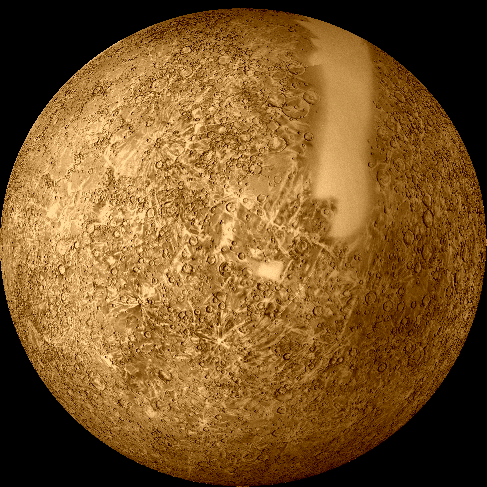
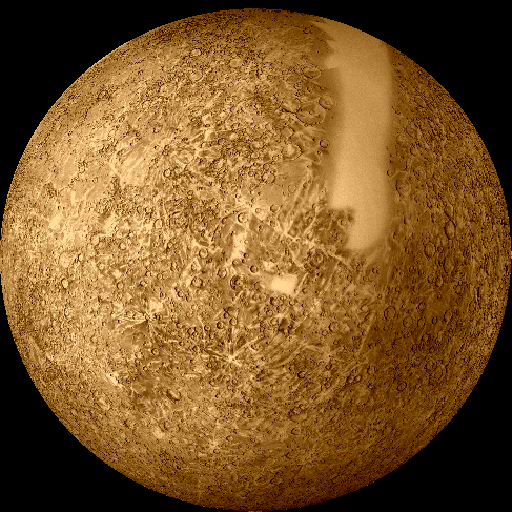
added textures for every planet, load them properly

diff --git a/proj4.c b/proj4.c
@@ -164,8 +164,8 @@ context_t *contextNew(unsigned int geomNum, unsigned int imageNum) {
   SPOT_V3_SET(ctx->lightColor, 1.0f, 1.0f, 1.0f);
   ctx->running = 1;
   ctx->program = 0;
-  ctx->winSizeX = 900;
-  ctx->winSizeY = 700;
+  ctx->winSizeX = 1500;
+  ctx->winSizeY = 900;
   ctx->tbarSizeX = 200;
   ctx->tbarSizeY = 300;
   ctx->tbarMargin = 20;
@@ -210,9 +210,9 @@ context_t *contextNew(unsigned int geomNum, unsigned int imageNum) {
     translateGeomU(ctx->geom[4],  0.338f); // Mars 
     translateGeomU(ctx->geom[5],  2.710f); // Jupiter 
     translateGeomU(ctx->geom[6],  5.507f); // Saturn 
-    translateGeomU(ctx->geom[7],  11.73f); // Uranus 
-    translateGeomU(ctx->geom[8],  18.75f); // Neptune 
-    translateGeomU(ctx->geom[9],  24.84f); // Pluto 
+    translateGeomU(ctx->geom[7],  9.73f); // Uranus 
+    translateGeomU(ctx->geom[8],  11.75f); // Neptune 
+    translateGeomU(ctx->geom[9],  15.84f); // Pluto 
 
     // scale the objects so that they resemble true dimensions
     scaleGeom(ctx->geom[0], 2.000f);  // Sun
@@ -229,30 +229,22 @@ context_t *contextNew(unsigned int geomNum, unsigned int imageNum) {
     // set orientation
     for (gi=0; gi < geomNum; gi ++) {
       SPOT_V4_SET(ctx->geom[gi]->quaternion, 1.0f, 0.0f, 0.0f, 0.0f);
+      ctx->geom[gi]->Kd = 0.4;
+      ctx->geom[gi]->Ks = 0.3;
+      ctx->geom[gi]->Ka = 0.3;
     }
 
     // load images
-    spotImageLoadPNG(ctx->image[0], "textimg/uchic-rgb.png");     // texture
-    spotImageLoadPNG(ctx->image[1], "textimg/uchic-norm08.png");  // bump map
-    //spotImageLoadPNG(ctx->image[2], "textimg/uchic-hght08.png");
-    spotImageLoadPNG(ctx->image[2], "textimg/uchic-norm08.png");
-    spotImageLoadPNG(ctx->image[3], "textimg/check-rgb.png");
-
-		//spotImageLoadPNG(ctx->image[4], "textimg/cube-sample.png");
-		spotImageLoadPNG(ctx->image[4], "textimg/cube-sample.png");
-		spotImageLoadPNG(ctx->image[5], "textimg/cube-cool.png");
-		spotImageLoadPNG(ctx->image[6], "textimg/cube-place.png");
-
-    // set lighting constants
-    ctx->geom[0]->Kd = 0.4;
-    ctx->geom[0]->Ks = 0.3;
-    ctx->geom[0]->Ka = 0.3;
-    ctx->geom[1]->Kd = 0.4;
-    ctx->geom[1]->Ks = 0.3;
-    ctx->geom[1]->Ka = 0.3;
-    ctx->geom[2]->Kd = 0.4;
-    ctx->geom[2]->Ks = 0.3;
-    ctx->geom[2]->Ka = 0.3;
+    spotImageLoadPNG(ctx->image[0], "textimg/sun.png");     // texture
+    spotImageLoadPNG(ctx->image[1], "textimg/mercury.png");  // bump map
+    spotImageLoadPNG(ctx->image[2], "textimg/venus.png");
+    spotImageLoadPNG(ctx->image[3], "textimg/earth.png");
+    spotImageLoadPNG(ctx->image[4], "textimg/mars.png");
+    spotImageLoadPNG(ctx->image[5], "textimg/jupiter.png");
+    spotImageLoadPNG(ctx->image[6], "textimg/saturn.png");
+    spotImageLoadPNG(ctx->image[7], "textimg/uranus.png");
+    spotImageLoadPNG(ctx->image[8], "textimg/neptune.png");
+    spotImageLoadPNG(ctx->image[9], "textimg/pluto.png");
 
   ctx->ticDraw = -1;
   ctx->ticMouse = -1;
@@ -261,7 +253,7 @@ context_t *contextNew(unsigned int geomNum, unsigned int imageNum) {
   ctx->thetaPerSecN = 0;
 	ctx->onlyN = 0;
 
-	ctx->cubeMapId = 2;
+//	ctx->cubeMapId = 2;
 
   ctx->angleU = 0;
   ctx->angleV = 0;
@@ -301,7 +293,7 @@ void setUnilocs() {
       SET_UNILOC(samplerA);
       SET_UNILOC(samplerB);
       SET_UNILOC(samplerC);
-      SET_UNILOC(cubeMap);
+//      SET_UNILOC(cubeMap);
       SET_UNILOC(samplerD);
       SET_UNILOC(Zu);
       SET_UNILOC(Zv);
@@ -399,14 +391,17 @@ int contextGLInit(context_t *ctx) {
 				printf("ii: %d\n", ii);
       if (ctx->image[ii]->data.v) {
         // Only bother with GL init when image data has been set
-        if (ii==4 || ii==5 || ii==6) { // 5 is our cubemap
+/*
+        if (ii=10) { //ii==4 || ii==5 || ii==6) { // 5 is our cubemap
           if (spotImageCubeMapGLInit(ctx->image[ii])) {
             spotErrorAdd("%s: trouble with image[%u]", me, ii);
             return 1;
           } else {
             printf("cubeMap: %d\n", ii);
           }
-        } else if (spotImageGLInit(ctx->image[ii])) {
+        } else 
+*/
+        if (spotImageGLInit(ctx->image[ii])) {
           spotErrorAdd("%s: trouble with image[%u]", me, ii);
           return 1;
         }
@@ -426,7 +421,7 @@ int contextGLInit(context_t *ctx) {
   gctx->minFilter = GL_NEAREST;
   gctx->magFilter = GL_NEAREST;
   gctx->perVertexTexturingMode=0; 
-//  perVertexTexturing();
+  perVertexTexturing();
 
   // NOTE: model initializations
   SPOT_M4_IDENTITY(gctx->model.xyzw);
@@ -446,7 +441,7 @@ int contextGLInit(context_t *ctx) {
   gctx->camera.up[2] = 0;
   gctx->camera.from[0] = 0;
   gctx->camera.from[1] = -2.0f;
-  gctx->camera.from[2] = -2.0f;
+  gctx->camera.from[2] = 25.0f;
   gctx->camera.at[0] = 0;
   gctx->camera.at[1] = 0;
   gctx->camera.at[2] = 0;
@@ -589,8 +584,8 @@ int contextDraw(context_t *ctx) {
      informative */
 
   glActiveTexture(GL_TEXTURE0);
-  glBindTexture(GL_TEXTURE_CUBE_MAP, ctx->image[4+ctx->cubeMapId]->textureId);
-  glUniform1i(ctx->uniloc.cubeMap, 0);
+//  glBindTexture(GL_TEXTURE_CUBE_MAP, ctx->image[4+ctx->cubeMapId]->textureId);
+//  glUniform1i(ctx->uniloc.cubeMap, 0);
 
   // NOTE: recall that image[0] is "uchic-rgb.png"
   glActiveTexture(GL_TEXTURE1);
@@ -726,7 +721,7 @@ static void TW_CALL getBumpMappingCallback(void *value, void *clientData) {
   *((int *) value) = gctx->bumpMappingMode;
 }
 
-static void TW_CALL setCubeMapCallback(const void *value, void *clientData) {
+/*static void TW_CALL setCubeMapCallback(const void *value, void *clientData) {
 	enum CubeMaps cubemap = *((const enum CubeMaps *) value);
 	switch (cubemap) {
 		case CubeSample:
@@ -743,7 +738,7 @@ static void TW_CALL setCubeMapCallback(const void *value, void *clientData) {
 
 static void TW_CALL getCubeMapCallback(void *value, void *clientData) {
   *((int *) value) = gctx->cubeMapId;
-}
+} */
 static void TW_CALL setShaderCallback(const void *value, void *clientData) {
 	enum Shaders shader = *((const enum Shaders *) value);
 	switch (shader) {
@@ -844,17 +839,17 @@ int updateTweakBarVars(int scene) {
                              TW_TYPE_FLOAT, &(gctx->geom[0]->shexp),
                              " label='shexp' min=0.0 max=100.0 step=0.05");
   if (!EE) EE |= !TwAddVarCB(gctx->tbar, "shader",
-														 twShaders, setShaderCallback,
-														 getShaderCallback, &(gctx->program),
-														 " label='shader'");
+                             twShaders, setShaderCallback,
+                             getShaderCallback, &(gctx->program),
+                             " label='shader'");
   if (!EE) EE |= !TwAddVarCB(gctx->tbar, "object",
-														 twObjects, setObjectCallback,
-														 getObjectCallback, &(gctx->gi),
-														 " label='object'");
-  if (!EE) EE |= !TwAddVarCB(gctx->tbar, "cubemap",
-														 twCubeMaps, setCubeMapCallback,
-														 getCubeMapCallback, &(gctx->cubeMapId),
-														 " label='cubemap'");
+                             twObjects, setObjectCallback,
+                             getObjectCallback, &(gctx->gi),
+                             " label='object'");
+/*  if (!EE) EE |= !TwAddVarCB(gctx->tbar, "cubemap",
+                             twCubeMaps, setCubeMapCallback,
+                             getCubeMapCallback, &(gctx->cubeMapId),
+                             " label='cubemap'"); */
   if (!EE) EE |= !TwAddVarRW(gctx->tbar, "bgColor",
                              TW_TYPE_COLOR3F, &(gctx->bgColor),
                              " label='bkgr color' ");
@@ -966,7 +961,7 @@ int main(int argc, const char* argv[]) {
     exit(1);
   }
 
-  if (!(gctx = contextNew(10, 7))) {
+  if (!(gctx = contextNew(10, 10))) {
     fprintf(stderr, "%s: context set-up problem:\n", me);
     spotErrorPrint();
     spotErrorClear();

diff --git a/callbacks.c b/callbacks.c
@@ -301,6 +301,7 @@ void callbackMouseButton(int button, int action)
           gctx->mouseFun.offset = 1;
           gctx->mouseFun.multiplier = 0.25;
           callbackResize(gctx->winSizeX, gctx->winSizeY);
+          fprintf(stderr, "fov: %f\n", gctx->camera.fov);
         }
       } else {
         printf(" ... (mode V) shrinks or grows (far distance) - (near distance)\n");
@@ -309,10 +310,10 @@ void callbackMouseButton(int button, int action)
           gctx->mouseFun.f = scale_near_far;
           gctx->mouseFun.multiplier = 0.25;
         } else if (gctx->lightMode) {
-					gctx->mouseFun.m = NULL;
-					gctx->mouseFun.f = scale_near_far2;
-					gctx->mouseFun.multiplier = 0.25;
-				}
+          gctx->mouseFun.m = NULL;
+          gctx->mouseFun.f = scale_near_far2;
+          gctx->mouseFun.multiplier = 0.25;
+        }
       }
     } else {
       if (!gctx->shiftDown) {
@@ -451,8 +452,8 @@ void callbackResize(int w, int h)
   }
 
   // Normalize
-  //wf /= hf;
-  //hf = 1
+//  wf /= hf;
+//  hf = 1;
   updateProj(gctx->camera.proj, wf, hf, gctx->camera.near, gctx->camera.far, gctx->camera.ortho);
 
   /* By default the tweak bar maintains its position relative to the
